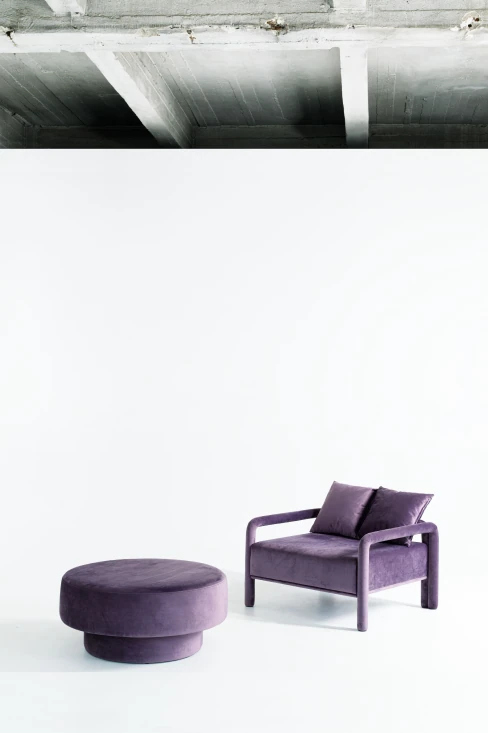
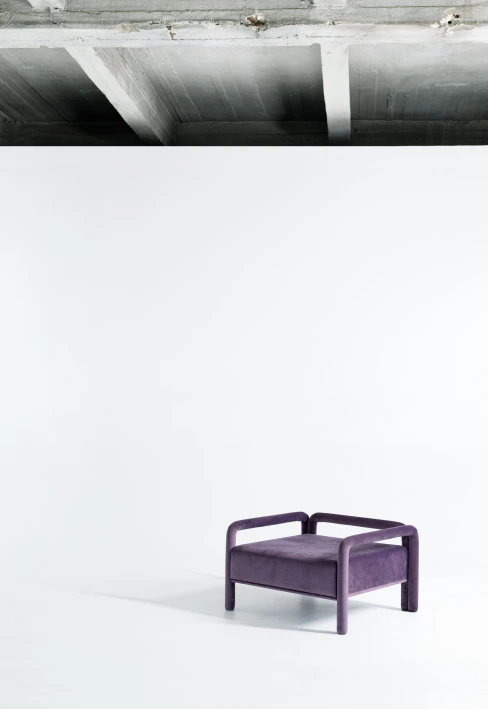
Обновленные фото стул grape

Changed region(s): [[0.0, 0.0, 1.0, 0.2172], [0.123, 0.6516, 0.9221, 0.9309], [0.3689, 0.0931, 0.3996, 0.1241]]

diff --git a/product-armchair-grape.html b/product-armchair-grape.html
@@ -73,6 +73,11 @@
               <img src="img/product/5-armchair-grape.webp" alt="">
             </div>
           </div>
+          <div class="swiper-slide product-preview__slider-slide">
+            <div class="product-preview__slider-wrapper-img">
+              <img src="img/product/6-armchair-grape.webp" alt="">
+            </div>
+          </div>
         </div>
         <!-- If we need navigation buttons -->
         <div class="product-preview__slider-row-button">
